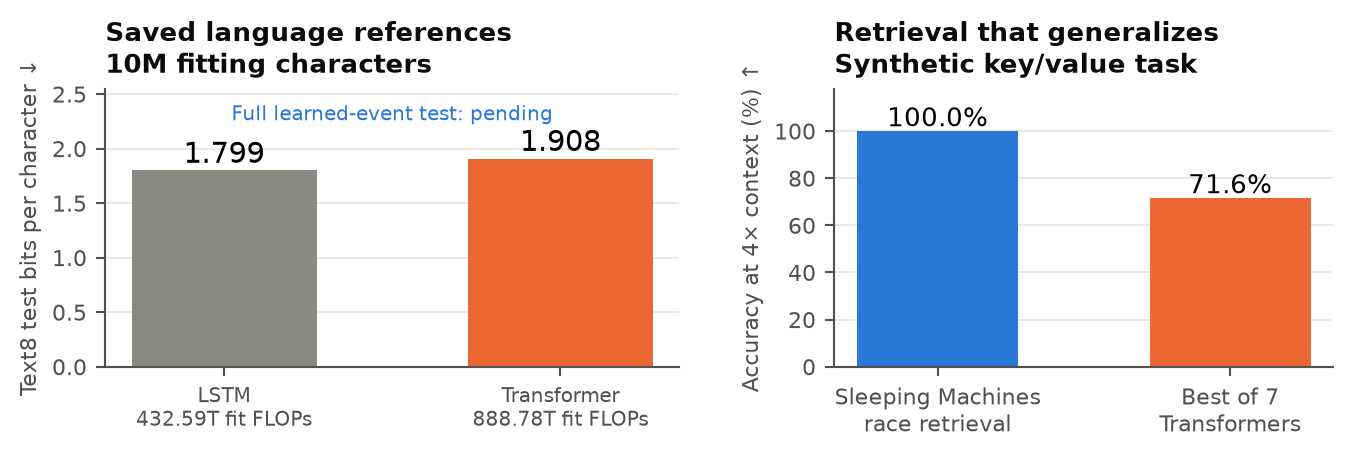
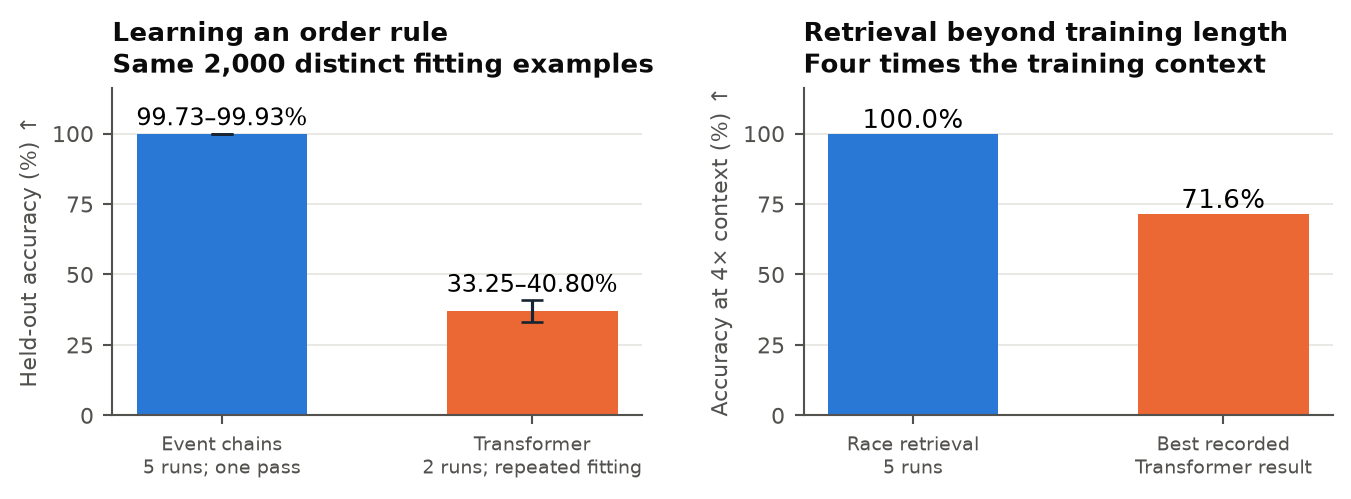
Lead report with completed comparisons and prioritize learned language

diff --git a/report/readable_report.py b/report/readable_report.py
@@ -174,28 +174,32 @@ def accomplishments_figure(M, ev, tasks):
     import matplotlib.pyplot as plt
     import numpy as np
     blue, orange, gray = M["BLUE"], M["ORANGE"], M["GRAY"]
-    f, ax = plt.subplots(1, 2, figsize=(7.2, 2.5), gridspec_kw={"width_ratios": [1.15, 1]})
-    costs={r['model']:r['total_training_flops'] for r in tasks['training_work']['language_rows']}
-    language = [ev['lstm10'], ev['tf10']]
-    ax[0].bar([0,1],language,width=.55,color=[gray,orange])
-    for i,value in enumerate(language):
-        ax[0].text(i,value+.07,f"{value:.3f}",ha="center",fontsize=11)
-    ax[0].set(xticks=[0,1],xticklabels=[f"LSTM\n{costs['lstm']/1e12:.2f}T fit FLOPs",
-                                      f"Transformer\n{costs['tf']/1e12:.2f}T fit FLOPs"],
-              ylim=(0,2.55),ylabel="Text8 test bits per character ↓")
-    ax[0].set_title("Saved language references\n10M fitting characters",fontsize=10)
-    ax[0].tick_params(axis='x',labelsize=7.4)
-    ax[0].text(.5,.94,"Full learned-event test: pending",transform=ax[0].transAxes,
-               ha="center",va="top",fontsize=7.4,color=blue)
+    f, ax = plt.subplots(1, 2, figsize=(7.2, 2.7))
+    event = [100*next(point["test"] for point in row["curve"] if point["step"] == 2000)
+             for row in tasks["mechanisms"]["order_curve"]["rows"]]
+    reference = [100*row["acc"] for row in tasks["mechanisms"]["order_references"][2000]["rows"]]
+    for i, (values, color) in enumerate(((event, blue), (reference, orange))):
+        mean = np.mean(values)
+        ax[0].bar(i, mean, width=.55, color=color)
+        ax[0].errorbar(i, mean, yerr=[[mean-min(values)], [max(values)-mean]],
+                       color="#172431", capsize=4, linewidth=1.2)
+        ax[0].text(i, max(values)+3, f"{min(values):.2f}–{max(values):.2f}%",
+                   ha="center", fontsize=9)
+    ax[0].set(xticks=[0,1], xticklabels=["Event chains\n5 runs; one pass",
+                                      "Transformer\n2 runs; repeated fitting"],
+              ylim=(0,116), ylabel="Held-out accuracy (%) ↑")
+    ax[0].set_title("Learning an order rule\nSame 2,000 distinct fitting examples", fontsize=10)
     ax[1].bar(range(2), [100, 100*ev["recall_tf"]], color=[blue, orange], width=.55)
-    ax[1].set_xticks([0, 1], ["Sleeping Machines\nrace retrieval", "Best of 7\nTransformers"])
-    ax[1].set_ylim(0, 118)
+    ax[1].set_xticks([0, 1], ["Race retrieval\n5 runs", "Best recorded\nTransformer result"])
+    ax[1].set_ylim(0, 116)
     ax[1].set_ylabel("Accuracy at 4× context (%) ↑")
     for i, value in enumerate([100, 100*ev["recall_tf"]]):
         ax[1].text(i, value+2, f"{value:.1f}%", ha="center", fontsize=10)
-    ax[1].set_title("Retrieval that generalizes\nSynthetic key/value task", fontsize=10)
+    ax[1].set_title("Retrieval beyond training length\nFour times the training context", fontsize=10)
     for a in ax:
         a.grid(axis="x", visible=False)
+        a.set_yticks([0,25,50,75,100])
+        a.tick_params(axis="x", labelsize=7.3)
     f.tight_layout(w_pad=2.5)
     return f
 
@@ -525,6 +529,7 @@ def blocks(M, tasks, ev):
     pages.append([
         ("title","Sleeping Machines"),
         ("sub","Deep learning that computes with time"),
+        ("small","Tero Keski-Valkama and Karoliina Salminen · Research report · 30 September 2026"),
         ("p","Messages carry a learned vector and an arrival time. Nodes accumulate local memory, transform "
          "messages and compete through learned delays. Arrival order and winning races determine the computation. "
          "The goal is useful intelligence with much less active work."),
@@ -546,18 +551,14 @@ def blocks(M, tasks, ev):
          f"<b>{tasks['stream_training']['final']['dev']['bpc']:.3f} development bpc</b> in a small screen. "
          "A learned speech encoder reaches <b>79.69%</b> on 512 private development utterances. "
          "These models learn source embeddings, temporal state and vector maps."]),
-        ("p",f"<b>Completed learned language pilot:</b> an estimated "
-         f"{tasks['event_language_work']['total_training_arithmetic_flops']/1e9:.2f}G arithmetic FLOPs "
-         "for fitting, backward, clipping, Adam and warmup; "
-         f"{tasks['event_language_work']['inference_arithmetic_flops_per_character']/1e3:.2f}K "
-         "per character for inference/scoring. These count the event algorithm, with special functions "
-         "separate. Full-model and matched-quality costs remain pending (Appendix B)."),
         ("figure",("accomplishments",174)),
-        ("small","Left: completed text8 controls; full fitting cost includes backward, clipping and Adam. "
-         "The learned event model's 10M-character test is pending. Its 28,403-parameter development screen "
-         "uses 8,192 fitting characters and 1,024 targets, a different budget and split. Right: the preserved "
-         "synthetic retrieval comparison. Event chains use five runs versus two Transformer runs, with different "
-         "architectures, priors and fitting schedules. Speech uses a development-selected prefix.")])
+        ("small","Left: means and recorded ranges, five event runs and two Transformer runs; "
+         "2,000 distinct examples, seen once / presented 400,000 times. Right: all five event runs "
+         "reach 100% within 4,000 examples; the control is the best saved result across seven "
+         "Transformer configurations and their learning curves. These synthetic tasks use different "
+         "architectures and structural priors. Sources: E53/E36 and E61."),
+        ("small","<b>Language scale-up:</b> the 1.21M-parameter learned model is running on 10M text8 "
+         "characters. Its test result is pending; completed neural controls and cost protocols are in Appendix B.")])
 
     reference_rows=[
         ["LSTM; width 512, one recurrent layer", "10M / six passes", f"{ev['lstm10']:.3f}",
@@ -594,7 +595,7 @@ def blocks(M, tasks, ev):
          "G/T/P mean billion/trillion/quadrillion. Validation/test evaluation, memory traffic and runtime "
          "are outside these arithmetic totals."),
         ("h2","Sleeping Machines benchmark status"),
-        ("p","The learned event-state model is queued for 10M fitting characters, four passes, "
+        ("p","The learned event-state model is running with 10M fitting characters, four passes, "
          "200,000 validation characters and the same 1M test interval. Its six layers, width 256 and "
          "128 temporal modes have 1,205,805 parameters. Its full test score and training work are pending. "
          "The completed 28,403-parameter model's 3.351 development bpc comes from a smaller fitting budget "

diff --git a/report/archive/20260930_before_evidence_review.md b/report/archive/20260930_before_evidence_review.md
@@ -2,8 +2,6 @@
 
 Deep learning that computes with time
 
-Tero Keski-Valkama and Karoliina Salminen · Research report · 30 September 2026
-
 Messages carry a learned vector and an arrival time. Nodes accumulate local memory, transform messages and compete through learned delays. Arrival order and winning races determine the computation. The goal is useful intelligence with much less active work.
 
 ## The differentiators at a glance
@@ -19,11 +17,11 @@ Messages carry a learned vector and an arrival time. Nodes accumulate local memo
 - **Learning from fewer examples.** Depth-three event chains reach **99.73–99.93%** after 2,000 examples seen once; saved Transformer controls reach **33.25–40.80%** with the same number of distinct examples and repeated fitting. Depth-four chains reach 99.9–100%.
 - **Learned representations.** The persistent language model reaches **3.351 development bpc** in a small screen. A learned speech encoder reaches **79.69%** on 512 private development utterances. These models learn source embeddings, temporal state and vector maps.
 
+**Completed learned language pilot:** an estimated 6.96G arithmetic FLOPs for fitting, backward, clipping, Adam and warmup; 59.74K per character for inference/scoring. These count the event algorithm, with special functions separate. Full-model and matched-quality costs remain pending (Appendix B).
+
 ![accomplishments](report/figures/accomplishments.png)
 
-Left: means and recorded ranges, five event runs and two Transformer runs; 2,000 distinct examples, seen once / presented 400,000 times. Right: all five event runs reach 100% within 4,000 examples; the control is the best saved result across seven Transformer configurations and their learning curves. These synthetic tasks use different architectures and structural priors. Sources: E53/E36 and E61.
-
-**Language scale-up:** the 1.21M-parameter learned model is running on 10M text8 characters. Its test result is pending; completed neural controls and cost protocols are in Appendix B.
+Left: completed text8 controls; full fitting cost includes backward, clipping and Adam. The learned event model's 10M-character test is pending. Its 28,403-parameter development screen uses 8,192 fitting characters and 1,024 targets, a different budget and split. Right: the preserved synthetic retrieval comparison. Event chains use five runs versus two Transformer runs, with different architectures, priors and fitting schedules. Speech uses a development-selected prefix.
 
 ## One architecture, several learned computations
 
@@ -337,7 +335,7 @@ Training estimates include every fitting step, forward/loss, backpropagation, gr
 
 ### Sleeping Machines benchmark status
 
-The learned event-state model is running with 10M fitting characters, four passes, 200,000 validation characters and the same 1M test interval. Its six layers, width 256 and 128 temporal modes have 1,205,805 parameters. Its full test score and training work are pending. The completed 28,403-parameter model's 3.351 development bpc comes from a smaller fitting budget and a different evaluation split; it is not a comparable test result.
+The learned event-state model is queued for 10M fitting characters, four passes, 200,000 validation characters and the same 1M test interval. Its six layers, width 256 and 128 temporal modes have 1,205,805 parameters. Its full test score and training work are pending. The completed 28,403-parameter model's 3.351 development bpc comes from a smaller fitting budget and a different evaluation split; it is not a comparable test result.
 
 Earlier 1M-character references also remain saved: LSTM **2.179** and Transformer **2.367 test bpc**, each with twenty fitting passes. The separate count/copy baseline and the cross-task Transformer/retrieval LSTM comparisons remain in their labeled sections and Appendix B.
 

diff --git a/experiments/HANDOFF.md b/experiments/HANDOFF.md
@@ -28,11 +28,30 @@ architecture, theory and historical results; extend them with new evidence.
   report commit, then push from an authenticated host. Do not claim it is remote
   until the remote commit is verified.
 
-## Running benchmarks — preserve the existing job
+## Running benchmarks — language now has priority
 
-- tmux: `proper_events_20260930T131028Z`.
+The user explicitly prioritized the front-page learned-language comparison and
+authorized pausing speech. The former suite was stopped without altering model
+sources or deleting its logs/checkpoint. A replacement suite runs language first.
+
+- Active tmux: `local_language_priority_20260930T144721Z`.
+- Active manifest: `experiments/queue/local_language_priority_20260930T144721Z.json`.
+- Active suite log: `experiments/queue/local_language_priority_20260930T144721Z.out`.
+- Current guarded job: `local_full_proper_language_10m_20260930T131028Z`, using
+  its original unique queue and unchanged configuration. It started at 14:47 UTC.
+- Speech resumes after language from epoch 12, example 6,144; source hashes in
+  `local_full_proper_shd_20260930T131028Z.progress.pt` were checked before pausing.
+- Remaining order: speech, DVS, MNIST, market, temporal composition.
+- The user will push incremental commits from the authenticated host; commit
+  reviewed report work on `main`. The references-only front-page panel has been
+  replaced by completed order-learning and retrieval comparisons. Keep the
+  larger language claim pending until the actual result and full work exist.
+
+### Original suite record (superseded)
+
+- Former tmux: `proper_events_20260930T131028Z` (stopped).
 - Manifest: `experiments/queue/local_full_proper_suite_20260930T131028Z.json`.
-- Suite log: `experiments/queue/local_full_proper_suite_20260930T131028Z.out`.
+- Historical suite log: `experiments/queue/local_full_proper_suite_20260930T131028Z.out`.
 - One guarded job at a time, through `experiments/queue/run_safe.sh`; never
   launch Python training directly. Current job: full SHD, 20 epochs, seed 6,
   from scratch, 395,814 learned parameters, 6,987 fit / 1,169 development
